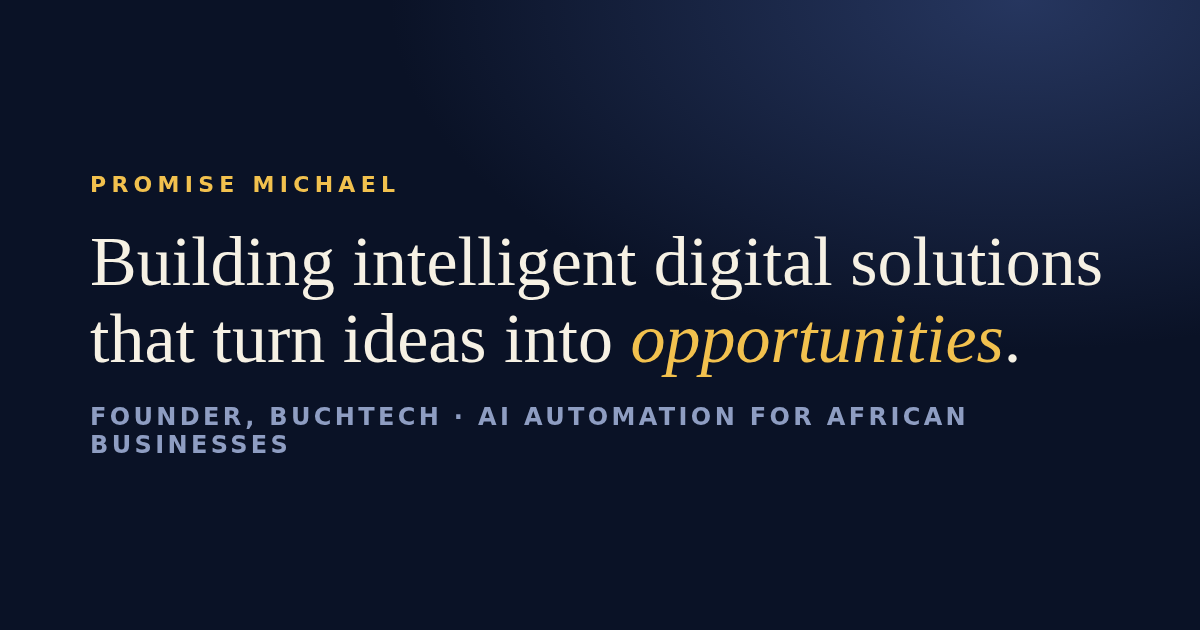
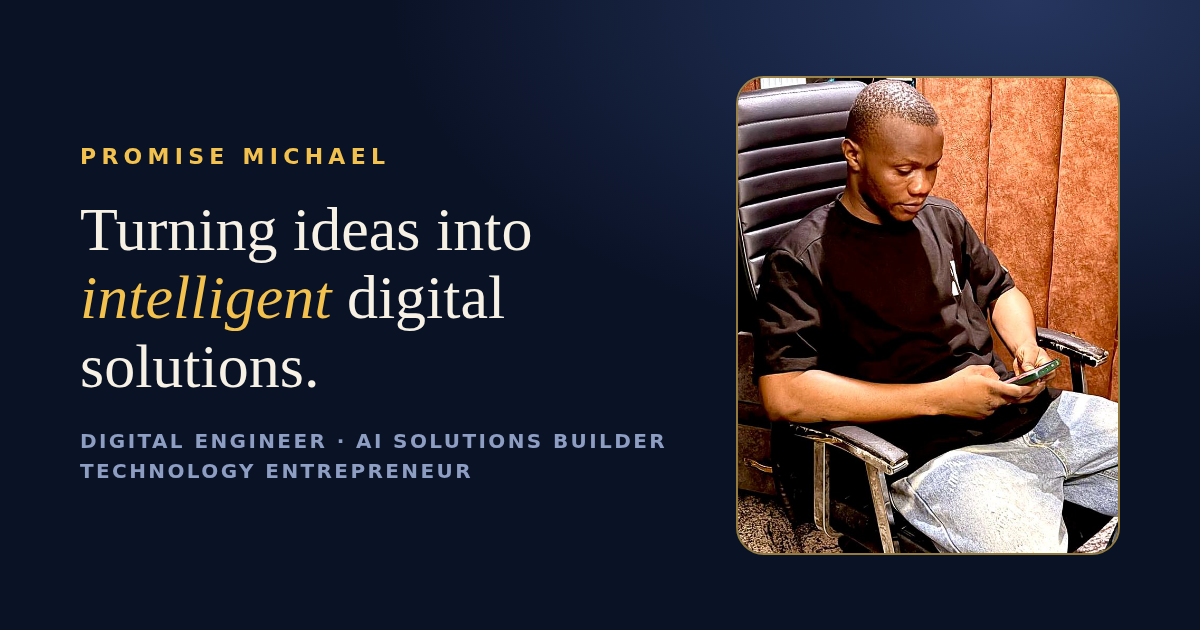
Portrait

diff --git a/index.html b/index.html
@@ -51,8 +51,8 @@ h1 em{color:var(--gold);font-style:italic}
 .btn:hover{transform:translateY(-2px)}
 .btn.fill{background:linear-gradient(135deg,var(--gold),var(--gold2));color:#1a1405;box-shadow:0 10px 28px rgba(242,193,78,.22)}
 .mono{aspect-ratio:4/5;border:1px solid var(--line);border-radius:28px;background:linear-gradient(160deg,#16264b,#0c1631);display:flex;flex-direction:column;align-items:center;justify-content:center;position:relative;box-shadow:0 30px 70px rgba(0,0,0,.45)}
-.mono:before{content:"";position:absolute;inset:14px;border:1px solid rgba(242,193,78,.35);border-radius:18px}
-.mono b{font:400 clamp(76px,10vw,120px)/1 var(--serif);color:var(--gold);letter-spacing:.02em}
+.mono{overflow:hidden}.mono:before{content:"";position:absolute;inset:14px;border:1px solid rgba(242,193,78,.35);border-radius:18px}
+.mono img{position:absolute;inset:0;width:100%;height:100%;object-fit:cover;object-position:50% 20%;border-radius:28px}.mono:before{z-index:2;pointer-events:none}.mono b{font:400 clamp(76px,10vw,120px)/1 var(--serif);color:var(--gold);letter-spacing:.02em}
 .mono span{margin-top:14px;font:600 11px var(--sans);letter-spacing:.3em;color:var(--mute)}
 .mono i{position:absolute;bottom:26px;font:12px var(--sans);color:var(--ph);font-style:normal}
 .strip{border-block:1px solid var(--line);background:var(--bg2);overflow:hidden;padding:18px 0;white-space:nowrap}
@@ -97,7 +97,7 @@ footer{border-top:1px solid var(--line);padding:36px 0;color:var(--mute);font:14
 .thumb span{position:absolute;left:8px;bottom:8px;font:700 10px var(--sans);letter-spacing:.12em;text-transform:uppercase;background:rgba(10,18,38,.85);color:var(--ivory);padding:5px 8px;border-radius:999px}
 
 @media(prefers-reduced-motion:reduce){.js .rv{opacity:1;transform:none;transition:none}html{scroll-behavior:auto}.strip div{animation:none}}
-@media(max-width:820px){.hero{grid-template-columns:1fr;padding:56px 24px 64px;gap:36px}.mono{order:-1;max-width:240px;aspect-ratio:1}nav a:not(.logo){margin-left:14px}nav .hide{display:none}section{padding:68px 0}body{font-size:17px}}
+@media(max-width:820px){.hero{grid-template-columns:1fr;padding:56px 24px 64px;gap:36px}.mono{order:-1;max-width:260px;aspect-ratio:4/5}nav a:not(.logo){margin-left:14px}nav .hide{display:none}section{padding:68px 0}body{font-size:17px}}
 </style>
 </head>
 <body>
@@ -113,7 +113,7 @@ footer{border-top:1px solid var(--line);padding:36px 0;color:var(--mute);font:14
 <p class="motto">Ideas. Intelligence. Impact.</p>
 <div class="btns"><a class="btn fill" href="#projects">Explore projects</a><a class="btn" href="#contact">Get in touch</a></div>
 </div>
-<div class="mono rv"><b>PM</b><span>BUCHTECH</span><i>[ portrait coming ]</i></div>
+<div class="mono rv"><img src="img/portrait.jpg" width="720" height="900" alt="Promise Michael"></div>
 </header>
 
 <div class="strip" aria-hidden="true"><div><span>AI automation</span><span>Websites &amp; web apps</span><span>E-commerce</span><span>WhatsApp integrations</span><span>Digital products</span><span>Branding &amp; content</span><span>AI automation</span><span>Websites &amp; web apps</span><span>E-commerce</span><span>WhatsApp integrations</span><span>Digital products</span><span>Branding &amp; content</span></div></div>
